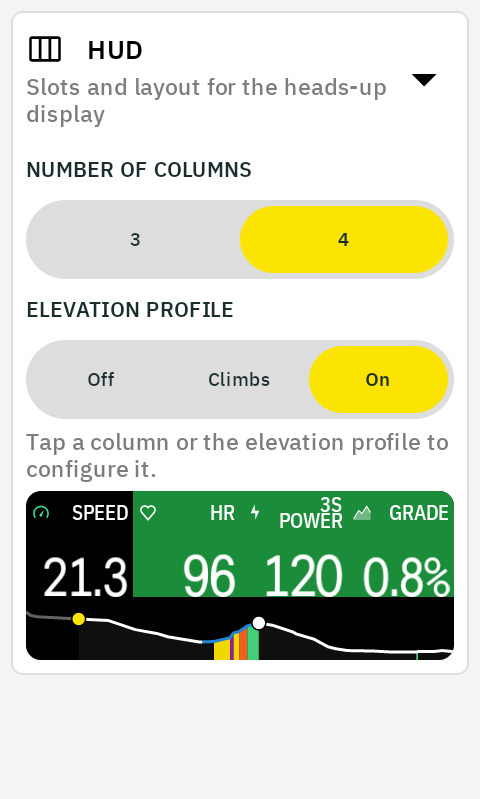
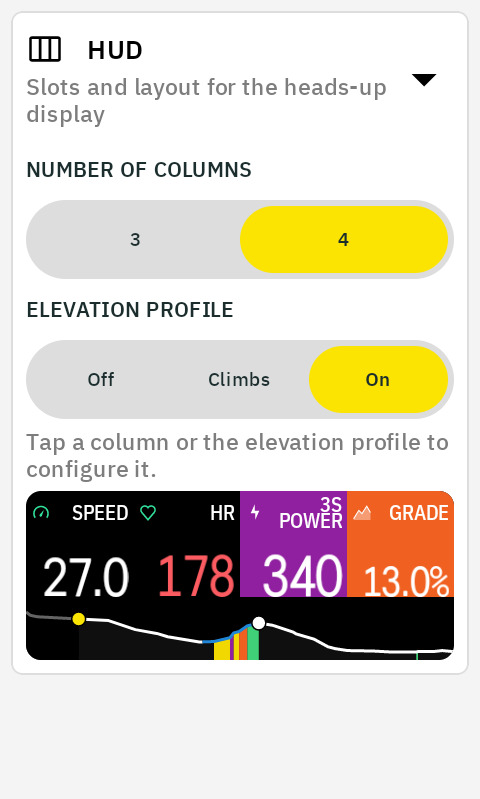
docs(shots): freeze the HUD config shot on the climb moment

Changed region(s): [[0.2188, 0.6008, 0.9688, 0.7509], [0.125, 0.6909, 0.1875, 0.7509]]

diff --git a/app/src/androidTest/kotlin/com/jpweytjens/barberfish/ConfigShotsRenderTest.kt b/app/src/androidTest/kotlin/com/jpweytjens/barberfish/ConfigShotsRenderTest.kt
@@ -103,10 +103,14 @@ class ConfigShotsRenderTest {
                 ),
             maxHr = 190,
             restingHr = 60,
-            heartRateZones = emptyList(),
-            ftp = 250,
-            powerZones = emptyList(),
+            // Zone ceilings at 60/70/80/90/100 % of max HR and 55/75/90/105/120/150 % of FTP,
+            // so the preview ride's moments land in distinct zones instead of all in zone 1.
+            heartRateZones = zones(114, 133, 152, 171, 190),
+            ftp = 220,
+            powerZones = zones(121, 165, 198, 231, 264, 330, 2000),
         )
+
+    private fun zones(vararg maxes: Int) = maxes.map { UserProfile.Zone(min = 0, max = it) }
 
     private fun setShotContent(
         fixedHeight: Boolean = false,
@@ -254,16 +258,14 @@ class ConfigShotsRenderTest {
                 mutableStateOf(
                     HUDConfig(
                         columns = 4,
+                        // One slot per colour mode, so the shot shows all three at once.
                         leftSlot =
                             HUDSlotConfig(
                                 field = HUDSlotField.Speed,
-                                colorMode = ZoneColorMode.BACKGROUND,
+                                colorMode = ZoneColorMode.NONE,
                             ),
                         middleSlot =
-                            HUDSlotConfig(
-                                field = HUDSlotField.HR,
-                                colorMode = ZoneColorMode.BACKGROUND,
-                            ),
+                            HUDSlotConfig(field = HUDSlotField.HR, colorMode = ZoneColorMode.TEXT),
                         rightSlot =
                             HUDSlotConfig(
                                 field = HUDSlotField.Power,

diff --git a/app/src/main/kotlin/com/jpweytjens/barberfish/screens/HUDConfigSection.kt b/app/src/main/kotlin/com/jpweytjens/barberfish/screens/HUDConfigSection.kt
@@ -113,6 +113,11 @@ private val HUD_PREVIEW_HEIGHT = 90.dp
 // the screenshot always shows the same recognisable climb profile.
 private const val SCREENSHOT_SWEEP_POSITION_M = 5300f
 
+// Preview moment the slot row freezes at in screenshot mode: the steep climb of the preview ride
+// (PreviewRide index 4), where power, heart rate and grade all sit in coloured bands rather than
+// the uniform zone 1 of the warm-up moment.
+private const val SCREENSHOT_MOMENT_INDEX = 4
+
 @OptIn(ExperimentalMaterial3Api::class)
 @Composable
 internal fun HUDConfigSection(
@@ -388,8 +393,11 @@ private fun HUDPreview(
     var index by remember { mutableIntStateOf(0) }
     LaunchedEffect(states, screenshotMode) {
         index = 0
-        if (screenshotMode)
-            return@LaunchedEffect // freeze on the first state for reproducible shots
+        if (screenshotMode) {
+            // Freeze on the climb moment for reproducible shots (see SCREENSHOT_MOMENT_INDEX).
+            index = SCREENSHOT_MOMENT_INDEX.coerceIn(states.indices)
+            return@LaunchedEffect
+        }
         while (true) {
             delay(PREVIEW_DELAY_MS)
             index = (index + 1) % states.size
